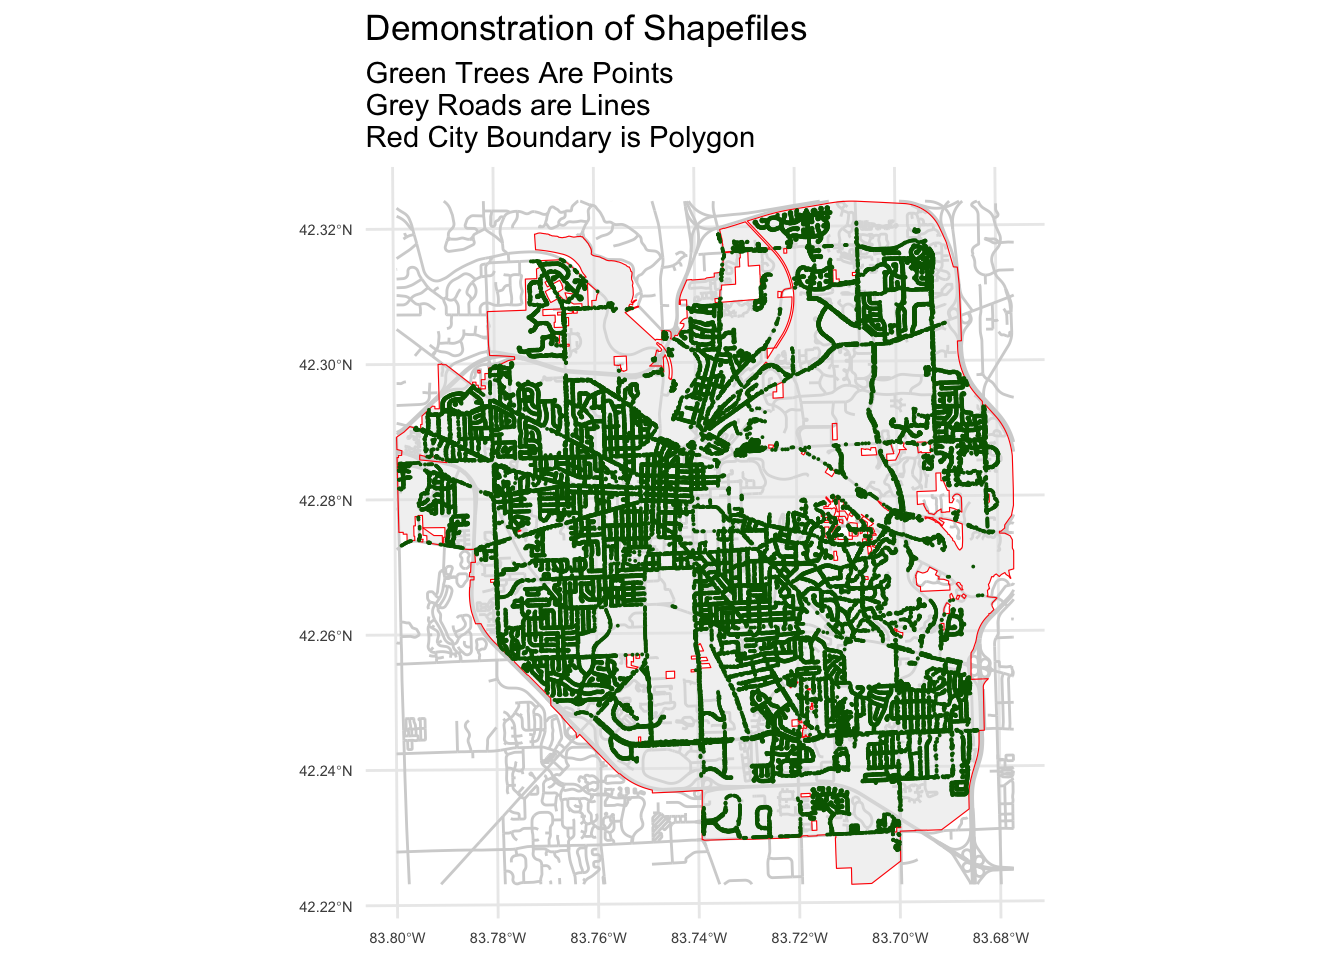
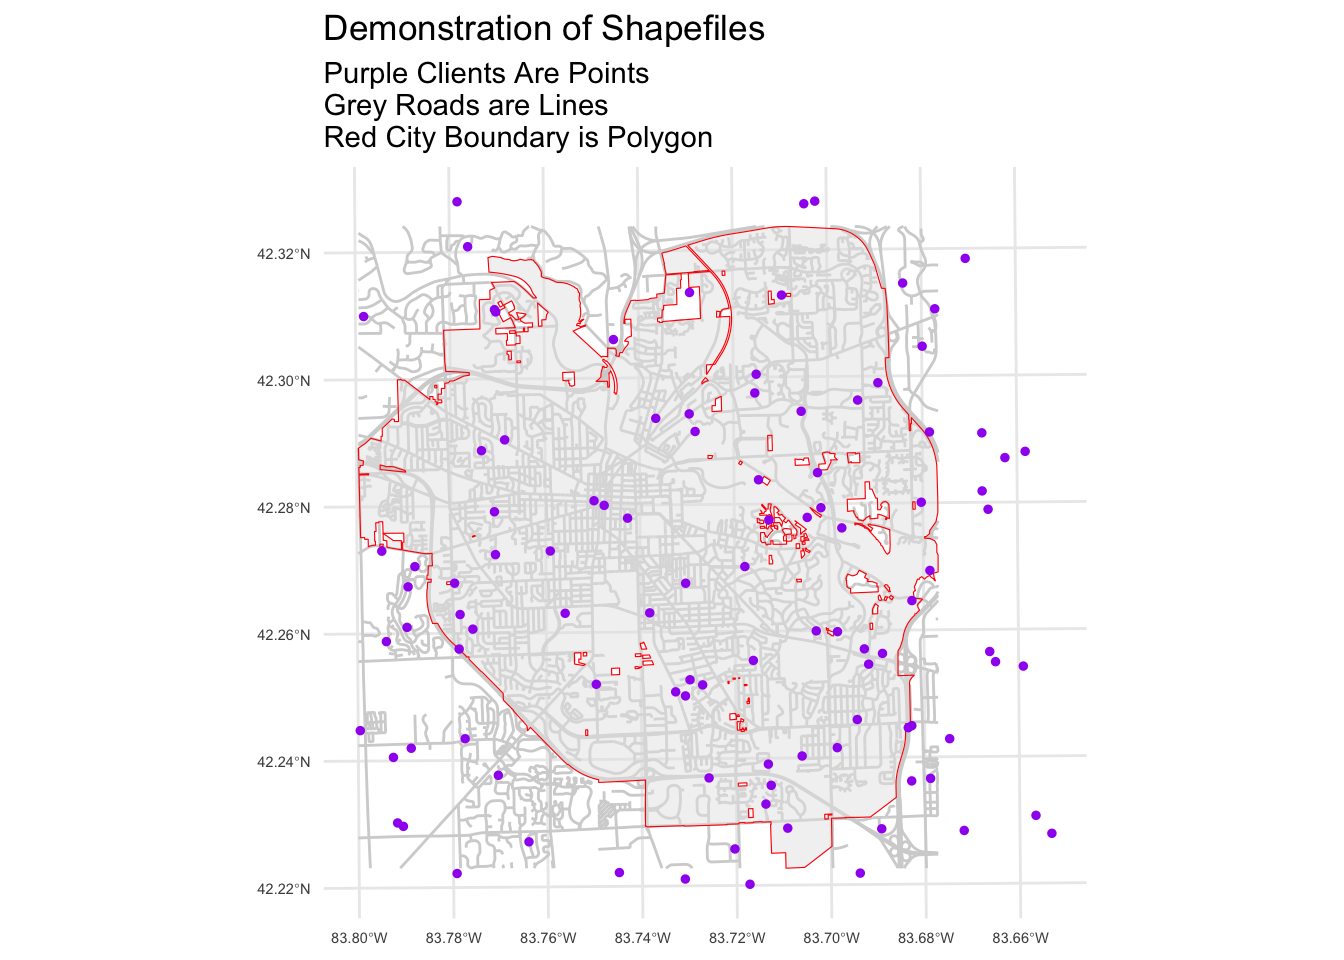
re-render; better exemplar map for shapefiles

diff --git a/docs/shapefiles.html b/docs/shapefiles.html
@@ -432,18 +432,20 @@ pre > code.sourceCode > span > a:first-child::before { text-decoration: underlin
 <span id="cb4-2"><a href="#cb4-2" aria-hidden="true" tabindex="-1"></a></span>
 <span id="cb4-3"><a href="#cb4-3" aria-hidden="true" tabindex="-1"></a>buildings <span class="ot">&lt;-</span> <span class="fu">read_sf</span>(<span class="st">"./shapefiles/AA_Building_Footprints/AA_Building_Footprints.shp"</span>)</span>
 <span id="cb4-4"><a href="#cb4-4" aria-hidden="true" tabindex="-1"></a></span>
-<span id="cb4-5"><a href="#cb4-5" aria-hidden="true" tabindex="-1"></a>trees <span class="ot">&lt;-</span> <span class="fu">read_sf</span>(<span class="st">"./shapefiles/a2trees/AA_Trees.shp"</span>)</span>
+<span id="cb4-5"><a href="#cb4-5" aria-hidden="true" tabindex="-1"></a><span class="co"># trees &lt;- read_sf("./shapefiles/a2trees/AA_Trees.shp")</span></span>
 <span id="cb4-6"><a href="#cb4-6" aria-hidden="true" tabindex="-1"></a></span>
-<span id="cb4-7"><a href="#cb4-7" aria-hidden="true" tabindex="-1"></a>parks <span class="ot">&lt;-</span> <span class="fu">read_sf</span>(<span class="st">"./shapefiles/AA_Parks/AA_Parks.shp"</span>)</span>
+<span id="cb4-7"><a href="#cb4-7" aria-hidden="true" tabindex="-1"></a><span class="co"># parks &lt;- read_sf("./shapefiles/AA_Parks/AA_Parks.shp")</span></span>
 <span id="cb4-8"><a href="#cb4-8" aria-hidden="true" tabindex="-1"></a></span>
-<span id="cb4-9"><a href="#cb4-9" aria-hidden="true" tabindex="-1"></a>university <span class="ot">&lt;-</span> <span class="fu">read_sf</span>(<span class="st">"./shapefiles/AA_University/AA_University.shp"</span>)</span>
+<span id="cb4-9"><a href="#cb4-9" aria-hidden="true" tabindex="-1"></a><span class="co"># university &lt;- read_sf("./shapefiles/AA_University/AA_University.shp")</span></span>
 <span id="cb4-10"><a href="#cb4-10" aria-hidden="true" tabindex="-1"></a></span>
-<span id="cb4-11"><a href="#cb4-11" aria-hidden="true" tabindex="-1"></a>WashtenawRoads <span class="ot">&lt;-</span> <span class="fu">read_sf</span>(<span class="st">"./shapefiles/Roads/RoadCenterlines.shp"</span>)</span>
+<span id="cb4-11"><a href="#cb4-11" aria-hidden="true" tabindex="-1"></a>clients <span class="ot">&lt;-</span> <span class="fu">read_sf</span>(<span class="st">"./shapefiles/clients/clients.shp"</span>)</span>
 <span id="cb4-12"><a href="#cb4-12" aria-hidden="true" tabindex="-1"></a></span>
-<span id="cb4-13"><a href="#cb4-13" aria-hidden="true" tabindex="-1"></a>AnnArborRoads <span class="ot">&lt;-</span> <span class="fu">st_crop</span>(WashtenawRoads, </span>
-<span id="cb4-14"><a href="#cb4-14" aria-hidden="true" tabindex="-1"></a>                         city_boundary) <span class="co"># crop to only get A2 roads</span></span>
-<span id="cb4-15"><a href="#cb4-15" aria-hidden="true" tabindex="-1"></a></span>
-<span id="cb4-16"><a href="#cb4-16" aria-hidden="true" tabindex="-1"></a><span class="co"># watersheds &lt;- read_sf("./shapefiles/watersheds/Watersheds.shp")</span></span></code><button title="Copy to Clipboard" class="code-copy-button"><i class="bi"></i></button></pre></div>
+<span id="cb4-13"><a href="#cb4-13" aria-hidden="true" tabindex="-1"></a>WashtenawRoads <span class="ot">&lt;-</span> <span class="fu">read_sf</span>(<span class="st">"./shapefiles/Roads/RoadCenterlines.shp"</span>)</span>
+<span id="cb4-14"><a href="#cb4-14" aria-hidden="true" tabindex="-1"></a></span>
+<span id="cb4-15"><a href="#cb4-15" aria-hidden="true" tabindex="-1"></a>AnnArborRoads <span class="ot">&lt;-</span> <span class="fu">st_crop</span>(WashtenawRoads, </span>
+<span id="cb4-16"><a href="#cb4-16" aria-hidden="true" tabindex="-1"></a>                         city_boundary) <span class="co"># crop to only get A2 roads</span></span>
+<span id="cb4-17"><a href="#cb4-17" aria-hidden="true" tabindex="-1"></a></span>
+<span id="cb4-18"><a href="#cb4-18" aria-hidden="true" tabindex="-1"></a><span class="co"># watersheds &lt;- read_sf("./shapefiles/watersheds/Watersheds.shp")</span></span></code><button title="Copy to Clipboard" class="code-copy-button"><i class="bi"></i></button></pre></div>
 </details>
 </div>
 </section>
@@ -457,14 +459,15 @@ pre > code.sourceCode > span > a:first-child::before { text-decoration: underlin
 <span id="cb5-3"><a href="#cb5-3" aria-hidden="true" tabindex="-1"></a>  <span class="co">#         fill = "lightgrey") +</span></span>
 <span id="cb5-4"><a href="#cb5-4" aria-hidden="true" tabindex="-1"></a>  <span class="fu">geom_sf</span>(<span class="at">data =</span> AnnArborRoads, <span class="co"># first layer: Ann Arbor roads </span></span>
 <span id="cb5-5"><a href="#cb5-5" aria-hidden="true" tabindex="-1"></a>          <span class="at">color =</span> <span class="st">"lightgrey"</span>) <span class="sc">+</span></span>
-<span id="cb5-6"><a href="#cb5-6" aria-hidden="true" tabindex="-1"></a>  <span class="fu">geom_sf</span>(<span class="at">color =</span> <span class="st">"red"</span>, <span class="at">alpha =</span> .<span class="dv">5</span>) <span class="sc">+</span> <span class="co"># second layer: city boundary</span></span>
-<span id="cb5-7"><a href="#cb5-7" aria-hidden="true" tabindex="-1"></a>  <span class="fu">geom_sf</span>(<span class="at">data =</span> trees, <span class="co"># third layer: trees</span></span>
-<span id="cb5-8"><a href="#cb5-8" aria-hidden="true" tabindex="-1"></a>          <span class="at">size =</span> .<span class="dv">01</span>,</span>
-<span id="cb5-9"><a href="#cb5-9" aria-hidden="true" tabindex="-1"></a>          <span class="at">color =</span> <span class="st">"darkgreen"</span>) <span class="sc">+</span></span>
-<span id="cb5-10"><a href="#cb5-10" aria-hidden="true" tabindex="-1"></a>  <span class="fu">labs</span>(<span class="at">title =</span> <span class="st">"Demonstration of Shapefiles"</span>,</span>
-<span id="cb5-11"><a href="#cb5-11" aria-hidden="true" tabindex="-1"></a>       <span class="at">subtitle =</span> <span class="st">"Green Trees Are Points </span><span class="sc">\n</span><span class="st">Grey Roads are Lines </span><span class="sc">\n</span><span class="st">Red City Boundary is Polygon"</span>) <span class="sc">+</span></span>
-<span id="cb5-12"><a href="#cb5-12" aria-hidden="true" tabindex="-1"></a>  <span class="fu">theme_minimal</span>() <span class="sc">+</span></span>
-<span id="cb5-13"><a href="#cb5-13" aria-hidden="true" tabindex="-1"></a>  <span class="fu">theme</span>(<span class="at">axis.text =</span> <span class="fu">element_text</span>(<span class="at">size =</span> <span class="fu">rel</span>(.<span class="dv">5</span>)))</span></code><button title="Copy to Clipboard" class="code-copy-button"><i class="bi"></i></button></pre></div>
+<span id="cb5-6"><a href="#cb5-6" aria-hidden="true" tabindex="-1"></a>  <span class="fu">geom_sf</span>(<span class="at">color =</span> <span class="st">"red"</span>, <span class="co"># second layer: city boundary</span></span>
+<span id="cb5-7"><a href="#cb5-7" aria-hidden="true" tabindex="-1"></a>          <span class="at">alpha =</span> .<span class="dv">5</span>) <span class="sc">+</span> </span>
+<span id="cb5-8"><a href="#cb5-8" aria-hidden="true" tabindex="-1"></a>  <span class="fu">geom_sf</span>(<span class="at">data =</span> clients, <span class="co"># third layer: clients</span></span>
+<span id="cb5-9"><a href="#cb5-9" aria-hidden="true" tabindex="-1"></a>          <span class="at">size =</span> <span class="dv">1</span>,</span>
+<span id="cb5-10"><a href="#cb5-10" aria-hidden="true" tabindex="-1"></a>          <span class="at">color =</span> <span class="st">"purple"</span>) <span class="sc">+</span></span>
+<span id="cb5-11"><a href="#cb5-11" aria-hidden="true" tabindex="-1"></a>  <span class="fu">labs</span>(<span class="at">title =</span> <span class="st">"Demonstration of Shapefiles"</span>,</span>
+<span id="cb5-12"><a href="#cb5-12" aria-hidden="true" tabindex="-1"></a>       <span class="at">subtitle =</span> <span class="st">"Purple Clients Are Points </span><span class="sc">\n</span><span class="st">Grey Roads are Lines </span><span class="sc">\n</span><span class="st">Red City Boundary is Polygon"</span>) <span class="sc">+</span></span>
+<span id="cb5-13"><a href="#cb5-13" aria-hidden="true" tabindex="-1"></a>  <span class="fu">theme_minimal</span>() <span class="sc">+</span></span>
+<span id="cb5-14"><a href="#cb5-14" aria-hidden="true" tabindex="-1"></a>  <span class="fu">theme</span>(<span class="at">axis.text =</span> <span class="fu">element_text</span>(<span class="at">size =</span> <span class="fu">rel</span>(.<span class="dv">5</span>)))</span></code><button title="Copy to Clipboard" class="code-copy-button"><i class="bi"></i></button></pre></div>
 </details>
 <div class="cell-output-display">
 <div>
@@ -1023,7 +1026,7 @@ window.document.addEventListener("DOMContentLoaded", function (event) {
   </div>
 </nav>
 </div> <!-- /content -->
-<footer class="footer"><div class="nav-footer"><div class="nav-footer-center"><div class="toc-actions d-sm-block d-md-none"><ul><li><a href="https://github.com/agrogan1/mapping/issues/new" class="toc-action"><i class="bi bi-github"></i>Report an issue</a></li></ul></div></div></div></footer><script>var lightboxQuarto = GLightbox({"openEffect":"zoom","closeEffect":"zoom","selector":".lightbox","descPosition":"bottom","loop":false});
+<footer class="footer"><div class="nav-footer"><div class="nav-footer-center"><div class="toc-actions d-sm-block d-md-none"><ul><li><a href="https://github.com/agrogan1/mapping/issues/new" class="toc-action"><i class="bi bi-github"></i>Report an issue</a></li></ul></div></div></div></footer><script>var lightboxQuarto = GLightbox({"selector":".lightbox","loop":false,"closeEffect":"zoom","descPosition":"bottom","openEffect":"zoom"});
 window.onload = () => {
   lightboxQuarto.on('slide_before_load', (data) => {
     const { slideIndex, slideNode, slideConfig, player, trigger } = data;

diff --git a/docs/symbology.html b/docs/symbology.html
@@ -466,7 +466,7 @@ Note
 <div class="cell-output-display">
 <div class="quarto-figure quarto-figure-center">
 <figure class="figure">
-<p><a href="symbology_files/figure-html/unnamed-chunk-1-1.png" class="lightbox" data-glightbox="description: .lightbox-desc-1" data-gallery="quarto-lightbox-gallery-1" title="Heatmap Colors"><img src="symbology_files/figure-html/unnamed-chunk-1-1.png" class="img-fluid figure-img" width="672" alt="Heatmap Colors"></a></p>
+<p><a href="symbology_files/figure-html/unnamed-chunk-1-1.png" class="lightbox" data-gallery="quarto-lightbox-gallery-1" data-glightbox="description: .lightbox-desc-1" title="Heatmap Colors"><img src="symbology_files/figure-html/unnamed-chunk-1-1.png" class="img-fluid figure-img" width="672" alt="Heatmap Colors"></a></p>
 <figcaption>Heatmap Colors</figcaption>
 </figure>
 </div>
@@ -480,7 +480,7 @@ Note
 <div class="cell-output-display">
 <div class="quarto-figure quarto-figure-center">
 <figure class="figure">
-<p><a href="symbology_files/figure-html/unnamed-chunk-2-1.png" class="lightbox" data-glightbox="description: .lightbox-desc-2" data-gallery="quarto-lightbox-gallery-2" title="Topographical Colors"><img src="symbology_files/figure-html/unnamed-chunk-2-1.png" class="img-fluid figure-img" width="672" alt="Topographical Colors"></a></p>
+<p><a href="symbology_files/figure-html/unnamed-chunk-2-1.png" class="lightbox" data-gallery="quarto-lightbox-gallery-2" data-glightbox="description: .lightbox-desc-2" title="Topographical Colors"><img src="symbology_files/figure-html/unnamed-chunk-2-1.png" class="img-fluid figure-img" width="672" alt="Topographical Colors"></a></p>
 <figcaption>Topographical Colors</figcaption>
 </figure>
 </div>
@@ -494,7 +494,7 @@ Note
 <div class="cell-output-display">
 <div class="quarto-figure quarto-figure-center">
 <figure class="figure">
-<p><a href="symbology_files/figure-html/unnamed-chunk-3-1.png" class="lightbox" data-glightbox="description: .lightbox-desc-3" data-gallery="quarto-lightbox-gallery-3" title="Terrain Colors"><img src="symbology_files/figure-html/unnamed-chunk-3-1.png" class="img-fluid figure-img" width="672" alt="Terrain Colors"></a></p>
+<p><a href="symbology_files/figure-html/unnamed-chunk-3-1.png" class="lightbox" data-gallery="quarto-lightbox-gallery-3" data-glightbox="description: .lightbox-desc-3" title="Terrain Colors"><img src="symbology_files/figure-html/unnamed-chunk-3-1.png" class="img-fluid figure-img" width="672" alt="Terrain Colors"></a></p>
 <figcaption>Terrain Colors</figcaption>
 </figure>
 </div>
@@ -517,7 +517,7 @@ Note
 <div class="cell-output-display">
 <div class="quarto-figure quarto-figure-center">
 <figure class="figure">
-<p><a href="symbology_files/figure-html/unnamed-chunk-5-1.png" class="lightbox" data-glightbox="description: .lightbox-desc-4" data-gallery="quarto-lightbox-gallery-4" title="Blues Palette"><img src="symbology_files/figure-html/unnamed-chunk-5-1.png" class="img-fluid figure-img" width="672" alt="Blues Palette"></a></p>
+<p><a href="symbology_files/figure-html/unnamed-chunk-5-1.png" class="lightbox" data-gallery="quarto-lightbox-gallery-4" data-glightbox="description: .lightbox-desc-4" title="Blues Palette"><img src="symbology_files/figure-html/unnamed-chunk-5-1.png" class="img-fluid figure-img" width="672" alt="Blues Palette"></a></p>
 <figcaption>Blues Palette</figcaption>
 </figure>
 </div>
@@ -531,7 +531,7 @@ Note
 <div class="cell-output-display">
 <div class="quarto-figure quarto-figure-center">
 <figure class="figure">
-<p><a href="symbology_files/figure-html/unnamed-chunk-6-1.png" class="lightbox" data-glightbox="description: .lightbox-desc-5" data-gallery="quarto-lightbox-gallery-5" title="Spectral Palette"><img src="symbology_files/figure-html/unnamed-chunk-6-1.png" class="img-fluid figure-img" width="672" alt="Spectral Palette"></a></p>
+<p><a href="symbology_files/figure-html/unnamed-chunk-6-1.png" class="lightbox" data-gallery="quarto-lightbox-gallery-5" data-glightbox="description: .lightbox-desc-5" title="Spectral Palette"><img src="symbology_files/figure-html/unnamed-chunk-6-1.png" class="img-fluid figure-img" width="672" alt="Spectral Palette"></a></p>
 <figcaption>Spectral Palette</figcaption>
 </figure>
 </div>
@@ -545,7 +545,7 @@ Note
 <div class="cell-output-display">
 <div class="quarto-figure quarto-figure-center">
 <figure class="figure">
-<p><a href="symbology_files/figure-html/unnamed-chunk-7-1.png" class="lightbox" data-glightbox="description: .lightbox-desc-6" data-gallery="quarto-lightbox-gallery-6" title="Set1 Palette"><img src="symbology_files/figure-html/unnamed-chunk-7-1.png" class="img-fluid figure-img" width="672" alt="Set1 Palette"></a></p>
+<p><a href="symbology_files/figure-html/unnamed-chunk-7-1.png" class="lightbox" data-gallery="quarto-lightbox-gallery-6" data-glightbox="description: .lightbox-desc-6" title="Set1 Palette"><img src="symbology_files/figure-html/unnamed-chunk-7-1.png" class="img-fluid figure-img" width="672" alt="Set1 Palette"></a></p>
 <figcaption>Set1 Palette</figcaption>
 </figure>
 </div>
@@ -1174,7 +1174,7 @@ window.document.addEventListener("DOMContentLoaded", function (event) {
   </div>
 </nav>
 </div> <!-- /content -->
-<footer class="footer"><div class="nav-footer"><div class="nav-footer-center"><div class="toc-actions d-sm-block d-md-none"><ul><li><a href="https://github.com/agrogan1/mapping/issues/new" class="toc-action"><i class="bi bi-github"></i>Report an issue</a></li></ul></div></div></div></footer><script>var lightboxQuarto = GLightbox({"selector":".lightbox","closeEffect":"zoom","descPosition":"bottom","openEffect":"zoom","loop":false});
+<footer class="footer"><div class="nav-footer"><div class="nav-footer-center"><div class="toc-actions d-sm-block d-md-none"><ul><li><a href="https://github.com/agrogan1/mapping/issues/new" class="toc-action"><i class="bi bi-github"></i>Report an issue</a></li></ul></div></div></div></footer><script>var lightboxQuarto = GLightbox({"closeEffect":"zoom","loop":false,"openEffect":"zoom","selector":".lightbox","descPosition":"bottom"});
 window.onload = () => {
   lightboxQuarto.on('slide_before_load', (data) => {
     const { slideIndex, slideNode, slideConfig, player, trigger } = data;

diff --git a/docs/crs.html b/docs/crs.html
@@ -1031,7 +1031,7 @@ window.document.addEventListener("DOMContentLoaded", function (event) {
   </div>
 </nav>
 </div> <!-- /content -->
-<footer class="footer"><div class="nav-footer"><div class="nav-footer-center"><div class="toc-actions d-sm-block d-md-none"><ul><li><a href="https://github.com/agrogan1/mapping/issues/new" class="toc-action"><i class="bi bi-github"></i>Report an issue</a></li></ul></div></div></div></footer><script>var lightboxQuarto = GLightbox({"openEffect":"zoom","loop":false,"selector":".lightbox","descPosition":"bottom","closeEffect":"zoom"});
+<footer class="footer"><div class="nav-footer"><div class="nav-footer-center"><div class="toc-actions d-sm-block d-md-none"><ul><li><a href="https://github.com/agrogan1/mapping/issues/new" class="toc-action"><i class="bi bi-github"></i>Report an issue</a></li></ul></div></div></div></footer><script>var lightboxQuarto = GLightbox({"loop":false,"openEffect":"zoom","selector":".lightbox","descPosition":"bottom","closeEffect":"zoom"});
 window.onload = () => {
   lightboxQuarto.on('slide_before_load', (data) => {
     const { slideIndex, slideNode, slideConfig, player, trigger } = data;

diff --git a/docs/ggplot-map.html b/docs/ggplot-map.html
@@ -1034,7 +1034,7 @@ window.document.addEventListener("DOMContentLoaded", function (event) {
   </div>
 </nav>
 </div> <!-- /content -->
-<footer class="footer"><div class="nav-footer"><div class="nav-footer-center"><div class="toc-actions d-sm-block d-md-none"><ul><li><a href="https://github.com/agrogan1/mapping/issues/new" class="toc-action"><i class="bi bi-github"></i>Report an issue</a></li></ul></div></div></div></footer><script>var lightboxQuarto = GLightbox({"closeEffect":"zoom","loop":false,"descPosition":"bottom","openEffect":"zoom","selector":".lightbox"});
+<footer class="footer"><div class="nav-footer"><div class="nav-footer-center"><div class="toc-actions d-sm-block d-md-none"><ul><li><a href="https://github.com/agrogan1/mapping/issues/new" class="toc-action"><i class="bi bi-github"></i>Report an issue</a></li></ul></div></div></div></footer><script>var lightboxQuarto = GLightbox({"loop":false,"closeEffect":"zoom","descPosition":"bottom","selector":".lightbox","openEffect":"zoom"});
 window.onload = () => {
   lightboxQuarto.on('slide_before_load', (data) => {
     const { slideIndex, slideNode, slideConfig, player, trigger } = data;

diff --git a/docs/merge-with-external-data.html b/docs/merge-with-external-data.html
@@ -1051,7 +1051,7 @@ window.document.addEventListener("DOMContentLoaded", function (event) {
   </div>
 </nav>
 </div> <!-- /content -->
-<footer class="footer"><div class="nav-footer"><div class="nav-footer-center"><div class="toc-actions d-sm-block d-md-none"><ul><li><a href="https://github.com/agrogan1/mapping/issues/new" class="toc-action"><i class="bi bi-github"></i>Report an issue</a></li></ul></div></div></div></footer><script>var lightboxQuarto = GLightbox({"selector":".lightbox","closeEffect":"zoom","loop":false,"descPosition":"bottom","openEffect":"zoom"});
+<footer class="footer"><div class="nav-footer"><div class="nav-footer-center"><div class="toc-actions d-sm-block d-md-none"><ul><li><a href="https://github.com/agrogan1/mapping/issues/new" class="toc-action"><i class="bi bi-github"></i>Report an issue</a></li></ul></div></div></div></footer><script>var lightboxQuarto = GLightbox({"loop":false,"closeEffect":"zoom","openEffect":"zoom","descPosition":"bottom","selector":".lightbox"});
 window.onload = () => {
   lightboxQuarto.on('slide_before_load', (data) => {
     const { slideIndex, slideNode, slideConfig, player, trigger } = data;

diff --git a/docs/rnaturalearth.html b/docs/rnaturalearth.html
@@ -977,7 +977,7 @@ window.document.addEventListener("DOMContentLoaded", function (event) {
   </div>
 </nav>
 </div> <!-- /content -->
-<footer class="footer"><div class="nav-footer"><div class="nav-footer-center"><div class="toc-actions d-sm-block d-md-none"><ul><li><a href="https://github.com/agrogan1/mapping/issues/new" class="toc-action"><i class="bi bi-github"></i>Report an issue</a></li></ul></div></div></div></footer><script>var lightboxQuarto = GLightbox({"loop":false,"descPosition":"bottom","openEffect":"zoom","selector":".lightbox","closeEffect":"zoom"});
+<footer class="footer"><div class="nav-footer"><div class="nav-footer-center"><div class="toc-actions d-sm-block d-md-none"><ul><li><a href="https://github.com/agrogan1/mapping/issues/new" class="toc-action"><i class="bi bi-github"></i>Report an issue</a></li></ul></div></div></div></footer><script>var lightboxQuarto = GLightbox({"selector":".lightbox","loop":false,"openEffect":"zoom","closeEffect":"zoom","descPosition":"bottom"});
 window.onload = () => {
   lightboxQuarto.on('slide_before_load', (data) => {
     const { slideIndex, slideNode, slideConfig, player, trigger } = data;
